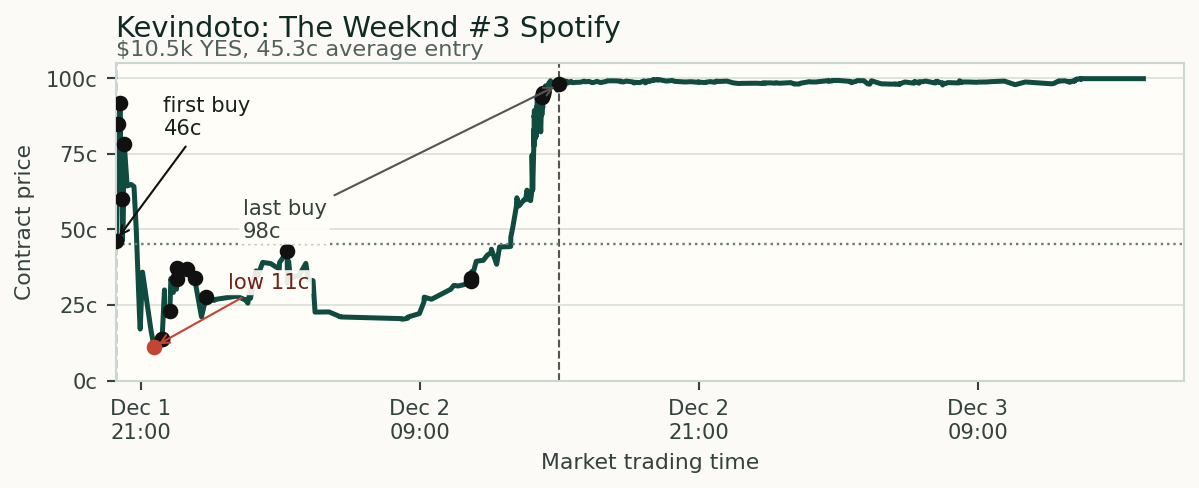
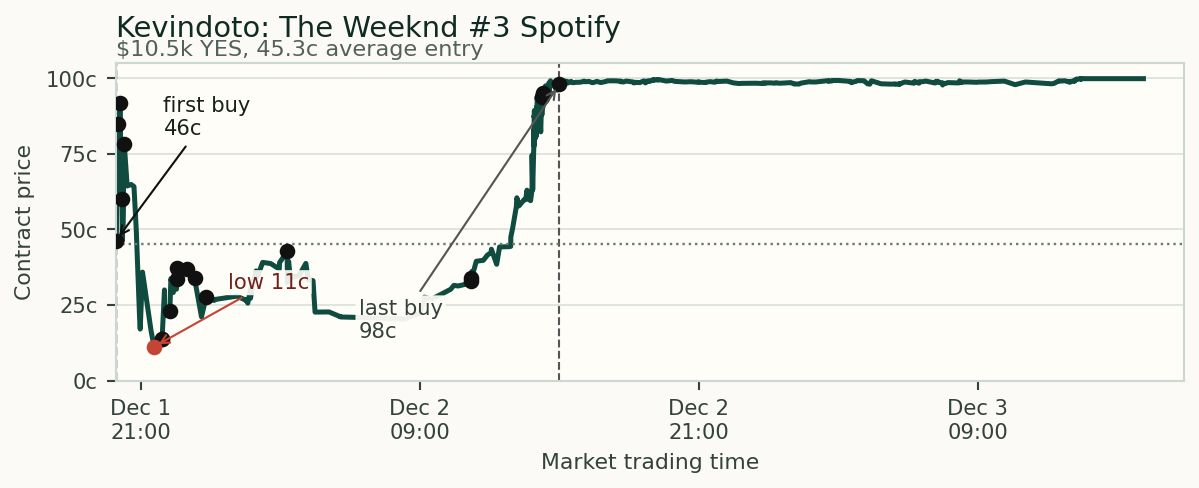
Fix Word chart embedding

diff --git a/src/build_word_memo.js b/src/build_word_memo.js
@@ -138,6 +138,7 @@ function imageParagraph(filename, width = 340, height = 141) {
     children: [
       new ImageRun({
         data: fs.readFileSync(path.join(CHARTS, filename)),
+        type: "png",
         transformation: { width, height },
       }),
     ],

diff --git a/src/plot_candidate_market_movements.py b/src/plot_candidate_market_movements.py
@@ -32,7 +32,7 @@ CHART_META = {
         "subtitle": "$10.5k YES, 45.3c average entry",
         "color": "#0f4c3f",
         "first_offset": (18, 40),
-        "last_offset": (-120, -58),
+        "last_offset": (-76, -96),
         "low_offset": (28, 22),
     },
     "Will Drake be the third most streamed Spotify artist for 2025?": {